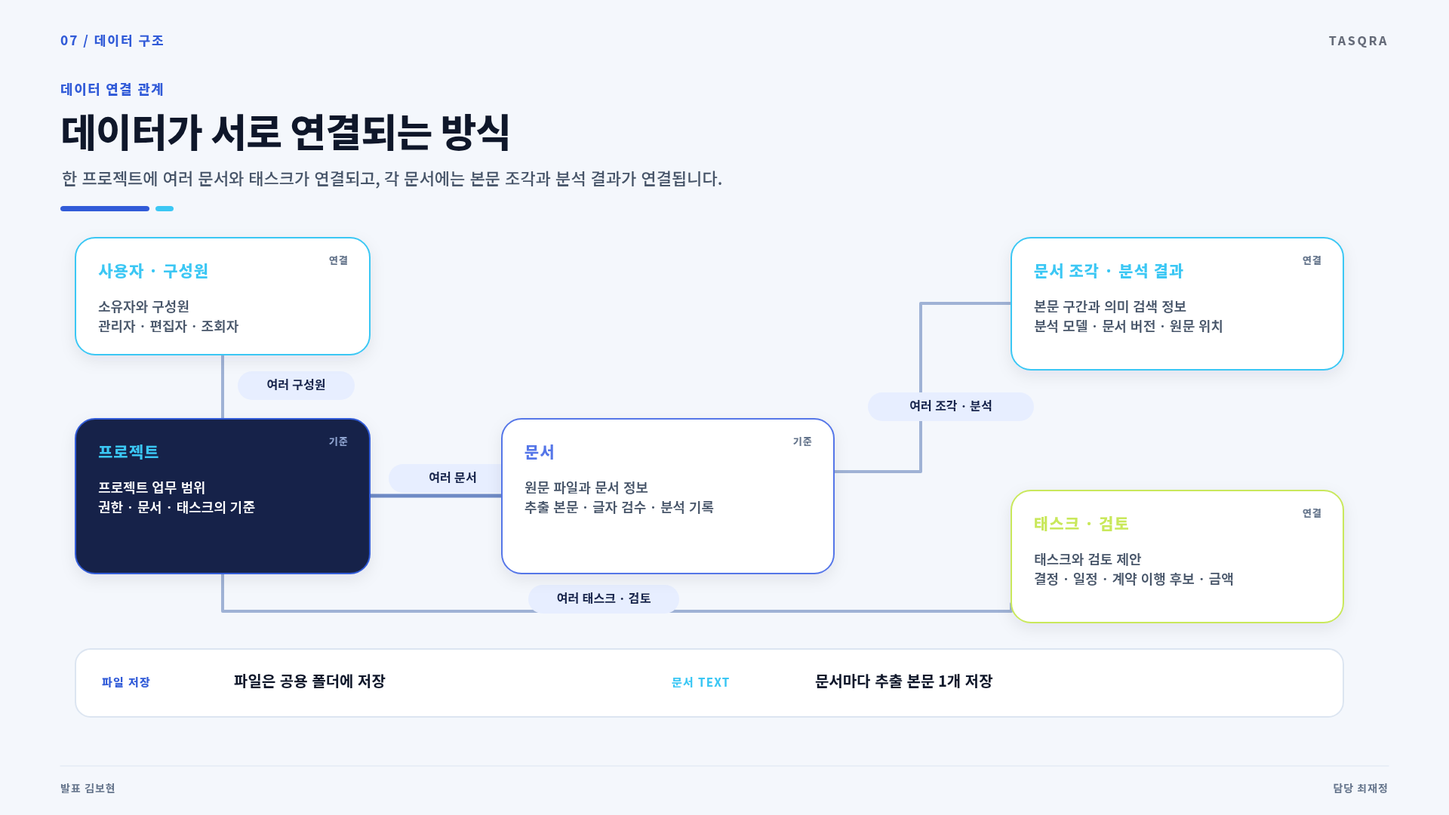
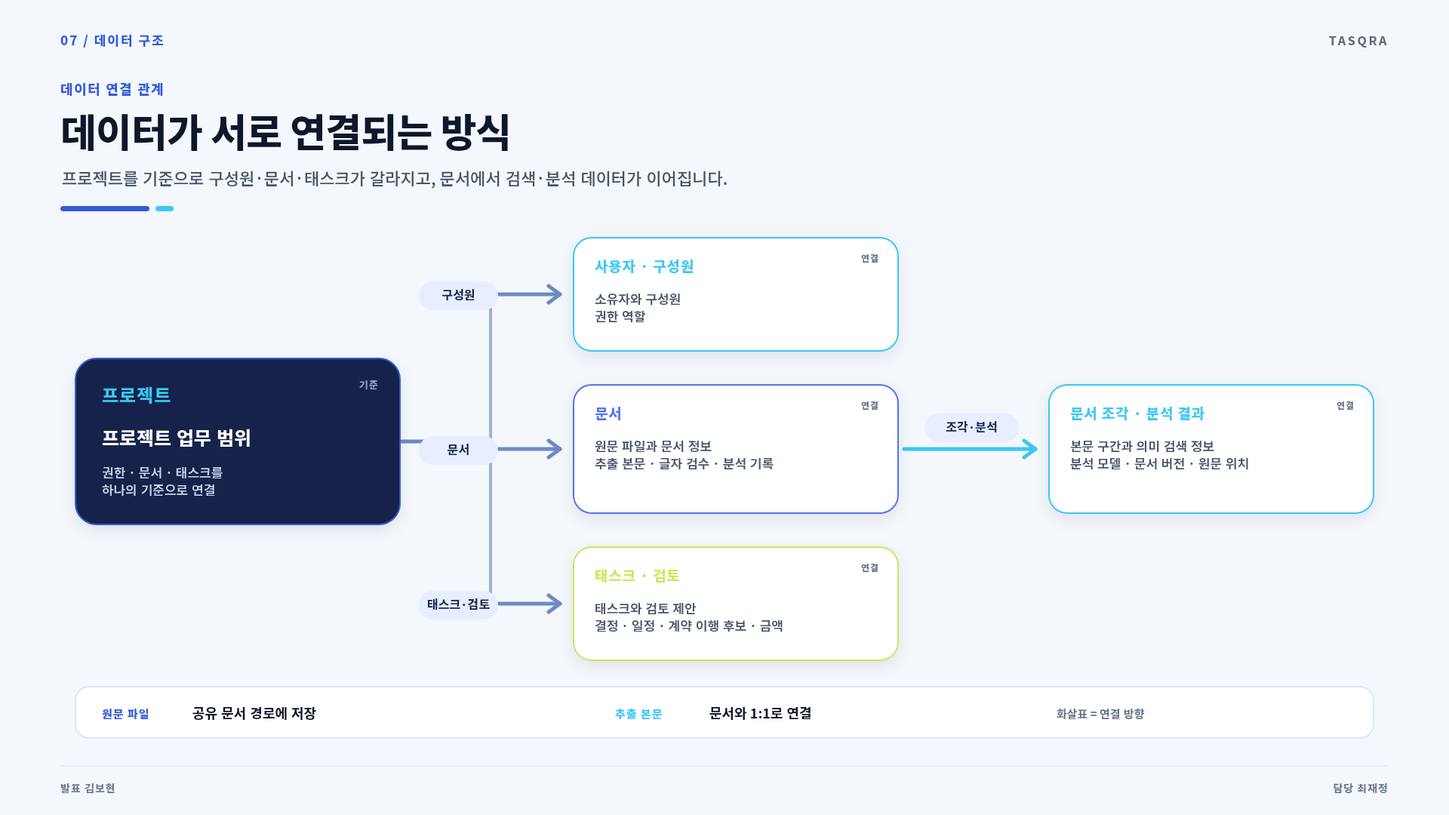
docs: 발표 슬라이드 흐름과 강조 개선

diff --git a/도구/pptx/build_final_presentation_29.py b/도구/pptx/build_final_presentation_29.py
@@ -164,91 +164,109 @@ def slide6():
     p = svg_base(6, "ARCHITECTURE", "김보현", "최재정 · 공통")
     slide_title(
         p,
-        "TWO REQUEST PATHS",
-        "요청 성격에 따라 두 경로로 나눴습니다",
-        "즉시 응답은 API가 처리하고, 오래 걸리는 OCR·청킹·AI 작업은 Redis·Celery로 분리합니다.",
+        "REQUEST FLOW",
+        "하나의 요청이 FastAPI에서 두 실행 경로로 나뉩니다",
+        "바로 끝나는 요청은 데이터베이스로, 오래 걸리는 작업은 대기열과 Worker로 보냅니다.",
         size=43,
     )
 
-    # 위쪽: 사용자가 결과를 기다리는 동기 요청 흐름.
-    p.append(panel(70, 300, 1780, 245, fill="#F7F9FD", stroke=C["border"], rx=28, shadow=False))
-    p.append(pill(105, 325, 150, 38, "동기 요청", C["soft_blue"], C["blue"], size=15))
-    sync_nodes = [
-        (105, 390, 360, "React · Vite", "Axios로 HTTP 요청", C["blue"]),
-        (600, 390, 360, "FastAPI", "요청 검증 · 업무 처리", C["cyan"]),
-        (1095, 390, 360, "SQLAlchemy", "트랜잭션 · 데이터 접근", C["blue2"]),
-        (1585, 390, 225, "PostgreSQL", "pgvector 1024D", C["lime"]),
-    ]
-    for x, y, w, heading, body, accent in sync_nodes:
-        p.append(panel(x, y, w, 115, fill=C["panel"], stroke=accent, rx=20, shadow=True))
-        p.append(text(x + 24, y + 43, heading, 23 if w > 250 else 20, 800, C["text"]))
-        p.append(text(x + 24, y + 80, body, 15, 600, C["body"]))
-    for x1, x2 in ((475, 585), (970, 1080), (1465, 1570)):
-        p.append(arrow(x1, 447, x2, 447, "#8EA4CC", 4))
+    # 왼쪽 큰 영역은 위에서 아래로 읽는 요청 흐름에만 사용한다.
+    p.append(panel(70, 300, 1320, 650, fill="#F7F9FD", stroke=C["border"], rx=28, shadow=False))
+    p.append(panel(420, 325, 620, 76, fill=C["panel"], stroke=C["blue"], rx=18, shadow=True))
+    p.append(text(450, 357, "사용자 화면", 15, 800, C["blue"], spacing=1.0))
+    p.append(text(1005, 370, "React · Vite  /  Axios 요청", 21, 800, C["text"], anchor="end"))
+    p.append(arrow(730, 410, 730, 445, "#8EA4CC", 5))
+    p.append(panel(420, 455, 620, 76, fill=C["navy"], stroke=C["cyan"], rx=18, shadow=True))
+    p.append(text(450, 487, "요청 진입점", 15, 800, C["cyan"], spacing=1.0))
+    p.append(text(1005, 500, "FastAPI  ·  검증과 업무 처리", 21, 800, "#FFFFFF", anchor="end"))
 
-    # 아래쪽: 요청과 분리해 재시도할 수 있는 비동기 작업 흐름.
-    p.append(panel(70, 575, 1780, 205, fill=C["navy"], stroke="#31477A", rx=28, shadow=True))
-    p.append(pill(105, 600, 170, 38, "비동기 작업", "#243866", C["cyan"], size=15))
+    # FastAPI에서 동기·비동기 경로로 갈라지는 분기선을 크게 보여 준다.
+    p.append(line(730, 531, 730, 575, "#6E87B8", 5))
+    p.append(line(380, 575, 1080, 575, "#6E87B8", 5))
+    p.append(arrow(380, 575, 380, 610, C["blue"], 5))
+    p.append(arrow(1080, 575, 1080, 610, C["cyan"], 5))
+
+    p.append(panel(110, 620, 540, 290, fill=C["panel"], stroke=C["blue"], rx=24, shadow=True))
+    p.append(pill(140, 645, 185, 38, "바로 끝나는 요청", C["soft_blue"], C["blue"], size=15))
+    p.append(panel(165, 705, 430, 66, fill="#F8FAFD", stroke=C["blue2"], rx=16, shadow=False))
+    p.append(text(190, 746, "SQLAlchemy  ·  트랜잭션과 데이터 접근", 18, 800, C["text"]))
+    p.append(arrow(380, 777, 380, 805, "#8EA4CC", 4))
+    p.append(panel(165, 815, 430, 66, fill="#F8FAFD", stroke=C["lime"], rx=16, shadow=False))
+    p.append(text(190, 856, "PostgreSQL  ·  업무 데이터와 pgvector", 18, 800, C["text"]))
+
+    p.append(panel(810, 620, 540, 290, fill=C["navy"], stroke=C["cyan"], rx=24, shadow=True))
+    p.append(pill(840, 645, 190, 38, "오래 걸리는 작업", "#243866", C["cyan"], size=15))
     async_nodes = [
-        (105, 660, 285, "FastAPI", "작업 등록"),
-        (475, 660, 285, "Redis", "대기열 · 작업 유지"),
-        (845, 660, 330, "Celery Worker", "OCR · 청킹 · 분석"),
-        (1260, 650, 550, "공유 자원", "PostgreSQL · backend/uploads · Ollama 호환 · local-model"),
+        (700, "Redis 대기열", "작업 등록 · 중단되어도 유지"),
+        (778, "Celery Worker", "OCR · 문서 나누기 · AI 분석"),
+        (856, "공유 자원", "PostgreSQL · 문서 파일 · AI 모델"),
     ]
-    for x, y, w, heading, body in async_nodes:
-        p.append(panel(x, y, w, 88 if heading != "공유 자원" else 108, fill="#1D315F", stroke="#3A5289" if heading != "공유 자원" else C["lime"], rx=18, shadow=False))
-        p.append(text(x + 22, y + 36, heading, 20, 800, "#FFFFFF"))
-        p.append(text(x + 22, y + 66, body, 14 if heading == "공유 자원" else 15, 600, "#C8D4EC"))
-    for x1, x2 in ((400, 460), (770, 830), (1185, 1245)):
-        p.append(arrow(x1, 704, x2, 704, "#6F89BF", 3))
+    for y, heading, body in async_nodes:
+        p.append(panel(850, y, 460, 58, fill="#1D315F", stroke="#3A5289" if heading != "공유 자원" else C["lime"], rx=14, shadow=False))
+        p.append(text(875, y + 25, heading, 17, 800, "#FFFFFF"))
+        p.append(text(1285, y + 25, body, 14, 600, "#C8D4EC", anchor="end"))
+        if y < 856:
+            p.append(arrow(1080, y + 61, 1080, y + 73, "#6F89BF", 3))
 
-    # 선택 이유: 경쟁 기술과의 근거 없는 우열 대신 실제 요구와 설계 결정을 연결한다.
+    # 선택 이유는 오른쪽 보조 열로 축소해 흐름보다 먼저 보이지 않게 한다.
+    p.append(panel(1430, 300, 410, 650, fill=C["panel"], stroke=C["border"], rx=28, shadow=True))
+    p.append(text(1470, 355, "이렇게 나눈 이유", 23, 800, C["text"]))
     reasons = [
-        (80, "응답 분리", "긴 OCR·청킹은 화면 요청과 분리", C["blue"]),
-        (525, "작업 보존", "Worker 종료에도 Redis 큐에 유지", C["cyan"]),
-        (970, "같은 기준 재조회", "재기동 뒤에도 같은 DB·파일 사용", C["blue2"]),
-        (1415, "모델 교체 가능", "LLM 호환 요청 · 임베딩 직접 로드", C["lime"]),
+        (415, "01", "화면 응답 분리", "긴 작업이 요청을 막지 않음", C["blue"]),
+        (535, "02", "작업 보존", "Worker 중단에도 Redis에 유지", C["cyan"]),
+        (655, "03", "같은 기준 재조회", "같은 DB와 문서 파일 사용", C["blue2"]),
+        (775, "04", "모델 교체 가능", "호환 요청과 로컬 모델 경로", C["lime"]),
     ]
-    for x, heading, body, accent in reasons:
-        p.append(panel(x, 815, 405, 125, fill=C["panel"], stroke=C["border"], rx=20, shadow=False))
-        p.append(rect(x, 815, 7, 125, accent, rx=4))
-        p.append(text(x + 25, 855, heading, 19, 800, C["text"]))
-        p.append(text(x + 25, 895, body, 15, 600, C["body"]))
-    p.append(text(80, 975, "요구 흐름  →  기술 배치  →  실패해도 이어서 처리할 수 있는 구조", 17, 800, C["blue"]))
+    for y, no, heading, body, accent in reasons:
+        p.append(circle(1475, y, 22, accent))
+        p.append(text(1475, y + 6, no, 12, 800, "#FFFFFF" if accent != C["lime"] else C["rail"], anchor="middle"))
+        p.append(text(1515, y - 4, heading, 18, 800, C["text"]))
+        p.append(text(1515, y + 25, body, 14, 600, C["body"]))
+    p.append(text(1635, 908, "요청  →  분기  →  실행  →  저장", 16, 800, C["blue"], anchor="middle"))
     return finish(p)
 
 
 def slide7():
     p = svg_base(7, "DATA MODEL", "김보현", "최재정")
-    slide_title(p, "RELATIONAL CORE", "핵심 데이터 구조", "Project와 Document를 중심으로 검색·분석·업무 데이터가 외래키로 연결됩니다.")
-    # ERD처럼 관계를 수평·직각으로 분리해 선이 교차하지 않게 한다.
-    entities=[
-        (100,315,390,155,"USER · MEMBER",("소유자와 구성원","OWNER · EDITOR · VIEWER"),C["cyan"]),
-        (100,555,390,205,"PROJECT",("프로젝트 업무 범위","권한 · 문서 · 태스크의 루트"),C["blue"]),
-        (665,555,440,205,"DOCUMENT",("원문 경로와 메타데이터","추출본문 · OCR · 분석 이력"),C["blue2"]),
-        (1340,315,440,175,"CHUNK · ANALYSIS",("본문 구간과 1024D 벡터","모델 · 버전 · 원문 좌표"),C["cyan"]),
-        (1340,650,440,175,"TASK · REVIEW",("태스크와 검토 제안","결정 · 일정 · 액션 · 금액"),C["lime"]),
+    slide_title(p, "RELATIONAL CORE", "데이터가 서로 연결되는 방식", "프로젝트를 기준으로 구성원·문서·태스크가 갈라지고, 문서에서 검색·분석 데이터가 이어집니다.")
+
+    # 왼쪽의 프로젝트에서 오른쪽 자식 데이터로 흐르는 관계를 한 방향으로 정렬한다.
+    project = (100, 475, 430, 220)
+    children = [
+        (760, 315, 430, 150, "USER · MEMBER", ("소유자와 구성원", "권한 역할"), C["cyan"]),
+        (760, 510, 430, 170, "DOCUMENT", ("원문 경로와 메타데이터", "추출본문 · OCR · 분석 이력"), C["blue2"]),
+        (760, 725, 430, 150, "TASK · REVIEW", ("태스크와 검토 제안", "결정 · 일정 · 액션 · 금액"), C["lime"]),
+        (1390, 510, 430, 170, "CHUNK · ANALYSIS", ("본문 구간과 1024D 벡터", "모델 · 버전 · 원문 좌표"), C["cyan"]),
     ]
-    # 관계선과 cardinality를 먼저 그린다.
-    p.append(polyline([(295,470),(295,555)],"#9FB2D5",4))
-    p.append(polyline([(490,657),(665,657)],"#6E8AC5",5))
-    p.append(polyline([(1105,625),(1220,625),(1220,402),(1340,402)],"#9FB2D5",4))
-    p.append(polyline([(295,760),(295,810),(1340,810),(1340,800)],"#9FB2D5",4))
-    label_tag(p,315,492,"1:N members",width=155)
-    label_tag(p,515,615,"1:N documents",width=170)
-    label_tag(p,1150,520,"1:N chunks / analyses",width=220)
-    label_tag(p,700,775,"1:N tasks / reviews",width=200)
-    for x,y,w,h,heading,body,accent in entities:
-        dark=heading=="PROJECT"
-        p.append(panel(x,y,w,h,fill=C["navy"] if dark else C["panel"],stroke=accent,rx=26,shadow=True))
-        p.append(text(x+30,y+52,heading,21,800,C["cyan"] if dark else accent,spacing=1.0))
-        p.append(multiline(x+30,y+98,body,18,600,"#FFFFFF" if dark else C["body"],line_height=1.45))
-        p.append(text(x+w-28,y+35,"PK" if heading in {"PROJECT","DOCUMENT"} else "FK",13,800,"#8EA3CF" if dark else C["muted"],anchor="end",spacing=1.2))
-    p.append(panel(100,860,1680,90,fill=C["panel"],stroke=C["border"],rx=20,shadow=False))
-    p.append(text(135,910,"FILE STORAGE",15,800,C["blue"],spacing=1.3))
-    p.append(text(310,910,"DB BLOB이 아니라 공유 로컬 경로",20,700,C["text"]))
-    p.append(text(890,910,"DOCUMENT TEXT",15,800,C["cyan"],spacing=1.3))
-    p.append(text(1080,910,"Document 1:1 ExtractedText",20,700,C["text"]))
+
+    # 카드보다 선을 먼저 그려 화살표가 카드 위를 가로지르지 않게 한다.
+    p.append(line(530, 585, 650, 585, "#6E8AC5", 5))
+    p.append(line(650, 390, 650, 800, "#9FB2D5", 4))
+    for target_y, label in ((390, "구성원"), (595, "문서"), (800, "태스크·검토")):
+        p.append(arrow(650, target_y, 742, target_y, "#6E8AC5", 5))
+        label_tag(p, 555, target_y - 17, label, width=105)
+    p.append(arrow(1198, 595, 1372, 595, C["cyan"], 5))
+    label_tag(p, 1225, 548, "조각·분석", width=125)
+
+    x, y, w, h = project
+    p.append(panel(x, y, w, h, fill=C["navy"], stroke=C["blue"], rx=28, shadow=True))
+    p.append(text(x + 35, y + 58, "PROJECT", 24, 800, C["cyan"], spacing=1.0))
+    p.append(text(x + 35, y + 115, "프로젝트 업무 범위", 25, 800, "#FFFFFF"))
+    p.append(multiline(x + 35, y + 158, ("권한 · 문서 · 태스크를", "하나의 기준으로 연결"), 17, 600, "#C8D4EC", line_height=1.35))
+    p.append(text(x + w - 28, y + 40, "기준", 13, 800, "#8EA3CF", anchor="end", spacing=1.2))
+
+    for x, y, w, h, heading, body, accent in children:
+        p.append(panel(x, y, w, h, fill=C["panel"], stroke=accent, rx=24, shadow=True))
+        p.append(text(x + 28, y + 45, heading, 19, 800, accent, spacing=.8))
+        p.append(multiline(x + 28, y + 88, body, 17, 600, C["body"], line_height=1.35))
+        p.append(text(x + w - 25, y + 32, "연결", 12, 800, C["muted"], anchor="end", spacing=1.0))
+
+    p.append(panel(100, 910, 1720, 68, fill=C["panel"], stroke=C["border"], rx=18, shadow=False))
+    p.append(text(135, 952, "원문 파일", 15, 800, C["blue"], spacing=1.0))
+    p.append(text(255, 952, "공유 문서 경로에 저장", 18, 700, C["text"]))
+    p.append(text(815, 952, "추출 본문", 15, 800, C["cyan"], spacing=1.0))
+    p.append(text(940, 952, "문서와 1:1로 연결", 18, 700, C["text"]))
+    p.append(text(1400, 952, "화살표 = 연결 방향", 15, 700, C["muted"]))
     return finish(p)
 
 
@@ -268,10 +286,20 @@ def slide8():
         p.append(text(120,y+128,note,15,600,C["muted"]))
         widths=[245,245,360]
         xs=[500,825,1150]
+        active_fill = {
+            C["blue"]: "#E8EEFF",
+            C["cyan"]: "#E6F8FC",
+            C["lime"]: "#F0F6D8",
+        }[accent]
+        active_text = {
+            C["blue"]: C["blue"],
+            C["cyan"]: "#1689A8",
+            C["lime"]: "#607816",
+        }[accent]
         for i,(state,x,w) in enumerate(zip(states,xs,widths)):
             active=i==1
-            p.append(panel(x,y+38,w,78,fill=C["navy"] if active else "#F8FAFD",stroke=accent,rx=18,shadow=False))
-            p.append(text(x+w/2,y+86,state,18 if i<2 else 16,800,"#FFFFFF" if active else accent,anchor="middle"))
+            p.append(panel(x,y+38,w,78,fill=active_fill if active else "#F8FAFD",stroke=accent,rx=18,shadow=False))
+            p.append(text(x+w/2,y+86,state,18 if i<2 else 16,800,active_text if active else accent,anchor="middle"))
             if i<2:p.append(arrow(x+w+18,y+77,xs[i+1]-18,y+77,"#9DAFCE",3))
         p.append(panel(1550,y+34,245,86,fill="#F3F6FB",stroke=C["border"],rx=16,shadow=False))
         p.append(text(1575,y+66,"STATE OWNER",12,800,C["muted"],spacing=1.1))
@@ -313,7 +341,7 @@ def slide10():
         p,
         "COMPLEMENTARY RETRIEVAL",
         "서로 다른 누락 위험을 한 검색창에서 보완했습니다",
-        "단일 검색 대비 성능 실험은 아직 없으며, 아래 내용은 성능 입증이 아닌 설계 근거입니다.",
+        "키워드는 정확한 글자를, 의미 검색은 표현이 다른 문장을 찾고 두 결과의 순위를 합칩니다.",
         size=42,
     )
 
@@ -360,16 +388,15 @@ def slide10():
     p.append(arrow(1150, 495, 1105, 495, C["blue2"], 4))
 
     reasons = [
-        (80, "왜 점수를 더하지 않았나", ("글자 유사도와 벡터 거리는", "단위·분포가 달라 직접 비교 불가"), C["blue"]),
-        (650, "왜 RRF인가", ("정규화·가중치 가정 없이", "각 검색에서 앞선 순위만 사용"), C["cyan"]),
-        (1220, "어디까지 말할 수 있나", ("서로 다른 누락 위험을 보완한 설계", "단일 검색 대비 성능 수치는 아직 없음"), C["lime"]),
+        (80, "점수를 그대로 더하지 않음", ("글자 유사도와 벡터 거리는", "단위·분포가 달라 직접 비교 불가"), C["blue"]),
+        (650, "각 검색 안에서 순위 계산", ("키워드·의미 검색에서", "각각 상위 30개 후보를 선택"), C["cyan"]),
+        (1220, "하나의 결과 목록으로", ("RRF가 두 순위를 합쳐", "사용자에게 최종 순위로 제공"), C["lime"]),
     ]
     for x, heading, body, accent in reasons:
-        p.append(panel(x, 735, 520, 180, fill=C["panel"], stroke=C["border"], rx=22, shadow=False))
-        p.append(rect(x, 735, 7, 180, accent, rx=4))
-        p.append(text(x + 28, 780, heading, 20, 800, C["text"]))
-        p.append(multiline(x + 28, 825, body, 16, 600, C["body"], line_height=1.55))
-    p.append(text(960, 970, "결론  ·  성능을 입증한 장이 아니라, 두 검색을 함께 둔 이유를 설명하는 장입니다.", 18, 800, C["blue"], anchor="middle"))
+        p.append(panel(x, 735, 520, 205, fill=C["panel"], stroke=C["border"], rx=22, shadow=False))
+        p.append(rect(x, 735, 7, 205, accent, rx=4))
+        p.append(text(x + 28, 785, heading, 20, 800, C["text"]))
+        p.append(multiline(x + 28, 835, body, 17, 600, C["body"], line_height=1.55))
     return finish(p)
 
 
@@ -456,11 +483,11 @@ def slide13():
         card_title(p,xs[i],330,no,head,accent,width=300,height=310,body_lines=body,icon_kind=kind,heading_size=23,body_size=17)
         if i<4:p.append(arrow(xs[i]+305,485,xs[i+1]-5,485,"#A9BAD9",3))
     p.append(panel(90,700,1740,210,fill=C["navy"],stroke="#31477A",rx=28,shadow=True))
-    p.append(text(135,760,"반환",18,800,C["cyan"],spacing=1.2))
-    p.append(text(135,817,"답변 + 문서명 + 페이지 + 조각 번호 + 원문 좌표",26,800,"#FFFFFF"))
-    p.append(text(135,865,"근거가 없으면 LLM을 호출하지 않고 고정 응답을 반환합니다.",18,500,"#BFCBE5"))
-    label_tag(p,1380,755,"의미적 사실 검증 아님",fill="#243864",color=C["lime"],width=360)
-    p.append(text(1380,825,"서버는 근거 번호와 사용 권한만 확인합니다.",18,600,"#FFFFFF"))
+    p.append(text(135,760,"사용자에게 보여주는 결과",18,800,C["cyan"],spacing=1.0))
+    p.append(text(135,817,"답변과 함께 문서명 · 페이지 · 원문 위치를 보여줍니다",26,800,"#FFFFFF"))
+    p.append(text(135,865,"근거를 찾지 못하면 인공지능을 호출하지 않고 정해진 안내만 보여줍니다.",18,500,"#BFCBE5"))
+    label_tag(p,1380,755,"서버가 확인하는 범위",fill="#243864",color=C["lime"],width=360)
+    p.append(text(1380,825,"근거 번호와 문서 접근 권한을 확인합니다.",18,600,"#FFFFFF"))
     return finish(p)
 
 
@@ -509,8 +536,8 @@ def slide15():
         card_title(p,xs[i],350,no,head,accent,width=360,height=330,body_lines=body,icon_kind=kind,dark=(i==3),heading_size=25,body_size=18)
         if i<3:p.append(arrow(xs[i]+370,515,xs[i+1]-10,515,"#A9BADA",4))
     p.append(panel(100,760,1680,150,fill=C["navy"],stroke="#31477A",rx=28,shadow=True))
-    p.append(text(145,815,"현재 화면",18,800,C["cyan"],spacing=1.2))
-    p.append(text(145,865,"승인·거절만 지원합니다. 수정 후 승인, 승인 취소, 원문 변경 확인은 다음 개선 항목입니다.",23,700,"#FFFFFF"))
+    p.append(text(145,815,"태스크 후보의 동작",18,800,C["cyan"],spacing=1.0))
+    p.append(text(145,865,"후보를 한 건씩 확인하고, 승인하면 실제 태스크를 만들며 거절하면 후보 목록에서 제외합니다.",23,700,"#FFFFFF"))
     return finish(p)
 
 
@@ -552,10 +579,11 @@ def slide16():
         p.append(text(1400,y+38,head,23,800,"#FFFFFF"))
         p.append(text(1765,y+38,desc,18,700,"#D6DFF0",anchor="end"))
         p.append(text(1400,y+69,"모두 같은 확정본 사용",15,700,C["cyan"]))
-    p.append(circle(1585,790,62,C["lime"],stroke="#A8C62A",sw=3))
-    p.append(text(1585,781,"동시",21,800,C["rail"],anchor="middle"));p.append(text(1585,812,"전환",21,800,C["rail"],anchor="middle"))
-    p.append(arrow(1278,790,1508,790,C["lime"],4))
-    p.append(text(1392,750,"모든 검토가 끝나면 확정본 교체",17,800,"#B9D33F",anchor="middle"))
+    p.append(panel(1275,744,550,54,fill=C["lime"],stroke="#A8C62A",rx=17,shadow=False))
+    p.append(text(1550,779,"모든 검토가 끝나면 확정본 교체",22,800,C["rail"],anchor="middle"))
+    p.append(arrow(1278,858,1625,858,C["lime"],9))
+    p.append(circle(1690,858,55,C["lime"],stroke="#A8C62A",sw=4))
+    p.append(text(1690,850,"동시",20,800,C["rail"],anchor="middle"));p.append(text(1690,880,"전환",20,800,C["rail"],anchor="middle"))
     p.append(text(80,930,"재분석 중에도 기존 승인 데이터가 화면·QA·산출물에 계속 제공되며, 완료 순간에만 소비 기준이 한 번 바뀝니다.",18,700,C["muted"]))
     return finish(p)
 

diff --git a/산출물/최종발표/최종발표_29장_구성.md b/산출물/최종발표/최종발표_29장_구성.md
@@ -9,19 +9,19 @@
 | 3 | 서비스 목표 | AI가 제안하고 사람이 확정한다 | 찾기·구조화·확정 카드 + 승인 흐름 | 김보현 / 공통 |
 | 4 | 전체 사용자 흐름 | 업로드부터 승인된 업무 반영까지 한 흐름이다 | 5단계 흐름 + 계약 이행 후보 + 산출물 | 김보현 / 공통 |
 | 5 | 팀 구성과 역할 | 제품 흐름을 세 영역으로 나눠 구현했다 | 역할 카드 3개 + 김보현 1~20→박세현 21 | 김보현 / 팀 |
-| 6 | 시스템 아키텍처·기술 스택 | 즉시 응답과 오래 걸리는 작업을 두 경로로 나누고 같은 데이터·파일을 사용한다 | 동기·비동기 2개 레인 + 선택 이유 4개 | 김보현 / 최재정·공통 |
-| 7 | 핵심 데이터 구조 | Project와 Document를 중심으로 검색·분석·업무 데이터가 연결된다 | 중앙 엔터티 + 관계형 ERD 요약 | 김보현 / 최재정 |
-| 8 | 상태를 분리한 운영 설계 | 문서 추출·OCR 검수·LLM 분석은 서로 다른 상태로 관리한다 | 3개 상태 레일 | 김보현 / 최재정·박세현 |
+| 6 | 시스템 아키텍처·기술 스택 | 즉시 응답과 오래 걸리는 작업을 두 경로로 나누고 같은 데이터·파일을 사용한다 | 요청 진입→두 경로 분기→실행·저장의 세로 흐름 + 보조 설계 이유 | 김보현 / 최재정·공통 |
+| 7 | 핵심 데이터 구조 | Project와 Document를 중심으로 검색·분석·업무 데이터가 연결된다 | 프로젝트→구성원·문서·태스크→조각·분석의 정렬된 화살표 | 김보현 / 최재정 |
+| 8 | 상태를 분리한 운영 설계 | 문서 추출·OCR 검수·LLM 분석은 서로 다른 상태로 관리한다 | 3개 상태 레일 + 섹션별 밝은 진행 상태 강조 | 김보현 / 최재정·박세현 |
 | 9 | 비동기 작업·실패 처리 | 실패 범위를 나눠 이미 성공한 단계는 유지하고 필요한 작업만 다시 실행한다 | OCR 재시도와 LLM PARTIAL 두 레일 | 김보현 / 박세현·최재정 |
 | 10 | OCR 엔진 선택·PDF 처리 | 미니프로젝트 3종 비교에서 PaddleOCR를 선택하고, 본프로젝트에서는 필요한 영역에만 OCR한다 | 엔진 기준선 3개 + 텍스트층/영역/전체 OCR·좌표 복원 흐름 | 김보현 / 최재정 |
 | 11 | OCR 수정·검색 본문 동기화 | 박스 수정·선택 재OCR 시 본문·뒤 요소 위치·문서 버전을 함께 갱신한다 | 미니→본프로젝트 확장 + 6단계 무결성 흐름 | 김보현 / 최재정 |
 | 12 | 문서 분할·임베딩 색인 | 구조·토큰 기준 청킹과 1024차원 임베딩으로 원문 위치가 있는 근거를 찾는다 | 색인→검색 파이프라인 | 김보현 / 김보현 |
-| 13 | 하이브리드 검색 | 키워드·의미 검색의 서로 다른 누락 위험을 RRF 순위 결합으로 보완한다. 단일 검색 대비 성능은 아직 미측정이다 | 누락 사례 2개 + RRF 선택 이유 + 증명 범위 | 김보현 / 김보현 |
+| 13 | 하이브리드 검색 | 키워드·의미 검색의 서로 다른 누락 위험을 RRF 순위 결합으로 보완한다. 단일 검색 대비 성능은 아직 미측정이다 | 누락 사례 2개 + 점수 대신 순위를 합쳐 하나의 결과를 만드는 흐름 | 김보현 / 김보현 |
 | 14 | 검색 규모 실험 | 후보 30에서는 R@1 90.2%, 전체 1,339청크에서는 36.9%였다 | R@1·R@5 선그래프 + 조건 카드 | 김보현 / 김보현·박세현 |
-| 15 | 근거 질의응답 | 검색 원문과 근거 ID 검증으로 문서명·페이지·원문 위치를 함께 반환한다 | 검색→조립→LLM→검증 흐름 | 김보현 / 김보현 |
+| 15 | 근거 질의응답 | 검색 원문과 근거 ID를 확인하고 답변과 함께 문서명·페이지·원문 위치를 보여준다 | 검색→조립→LLM→서버 확인→사용자 결과 흐름 | 김보현 / 김보현 |
 | 16 | 사람 검토 | AI 제안은 정보 종류에 맞는 검토를 통과해야 소비된다 | 유형별 검토 카드 3개 | 김보현 / 김보현·최재정 |
-| 17 | 계약 이행 후보→태스크 | 계약 문서의 행동·의무 후보를 승인해야 실제 태스크가 생성된다 | 4단계 승인 흐름 | 김보현 / 최재정 |
-| 18 | 금액 확정본 | 새 검토가 끝날 때까지 직전 확정본을 유지하고 완료 시 함께 전환한다 | 기존·신규 두 레일과 동시 전환 | 김보현 / 김보현 |
+| 17 | 계약 이행 후보→태스크 | 계약 문서의 행동·의무 후보를 승인해야 실제 태스크가 생성된다 | 후보 탐색→선택→검토 대기→승인·거절 행동 흐름 | 김보현 / 최재정 |
+| 18 | 금액 확정본 | 새 검토가 끝날 때까지 직전 확정본을 유지하고 완료 시 함께 전환한다 | 기존 확정본 유지 + 모든 검토 완료 후 굵은 동시 전환 강조 | 김보현 / 김보현 |
 | 19 | 대시보드·산출물 | 승인된 같은 정보를 화면 구성 예시와 4종 산출물로 연결한다 | 대시보드 예시 + 산출물 4개 | 김보현 / 김보현·최재정 |
 | 20 | 임베딩 모델 선택 | 9개 후보를 같은 조건으로 비교해 BGE-m3-ko를 기본 모델로 선택했다 | 9개 막대 + 후보 기준 + 통계 한계 | 김보현 / 김보현·박세현 |
 | 21 | 재정렬 모델 | 학습한 재정렬 모델이 이미 찾은 후보 안에서 첫 정답 순위를 개선했다 | 막대그래프 + 적용 경로 | 박세현 / 박세현 |
